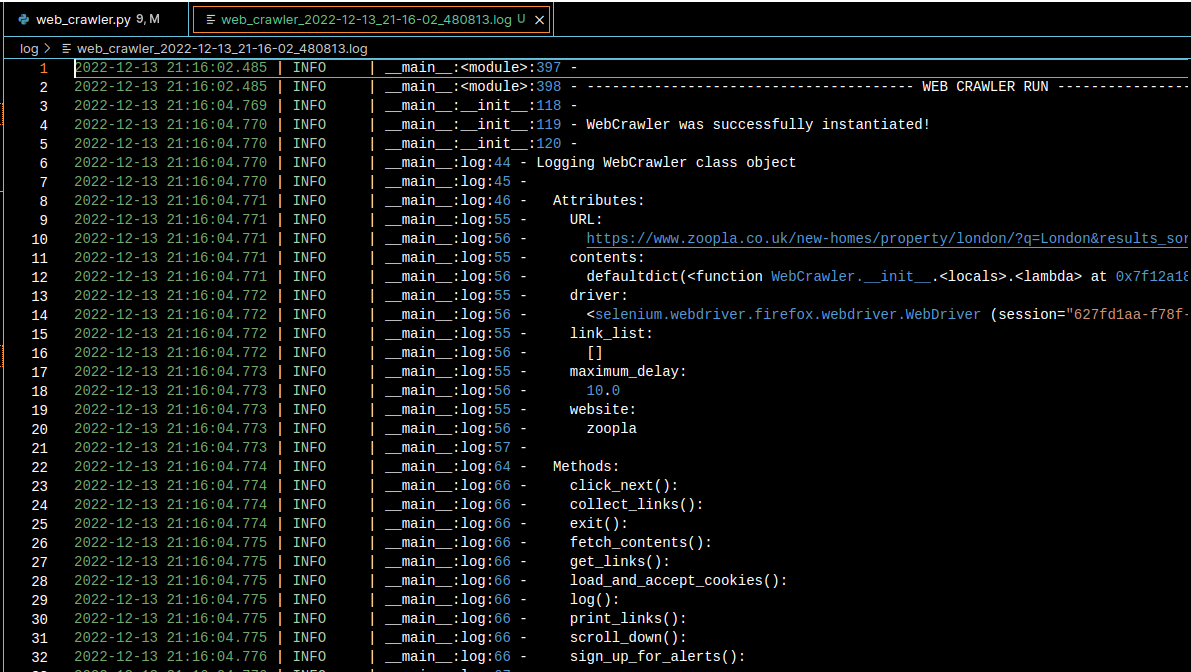
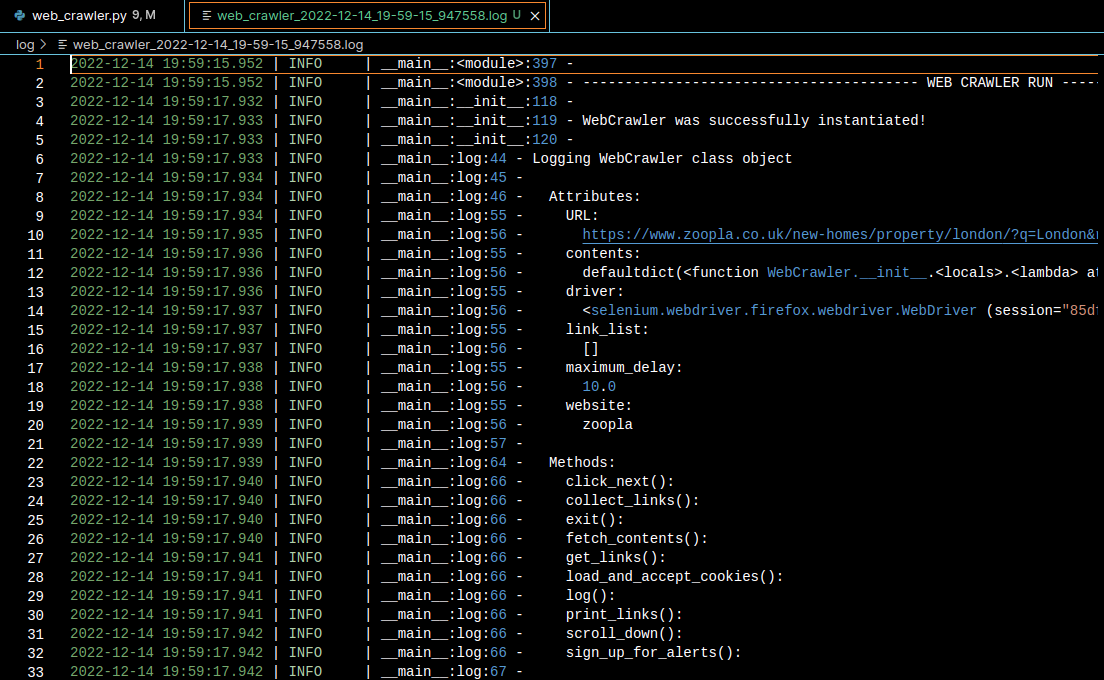
Update to README.md

Changed region(s): [[0.0, 0.0, 1.0, 1.0]]

diff --git a/web_crawler.py b/web_crawler.py
@@ -395,7 +395,7 @@ if __name__ == "__main__":
     logger.remove()
     logger.add("log/web_crawler_{time}.log")
     logger.info("")
-    logger.info("--------------------------------------- WEB CRAWLER RUN --------------------------------------- ")
+    logger.info("---------------------------------------- WEB CRAWLER RUN ----------------------------------------")
 
     URL = "https://www.zoopla.co.uk/new-homes/property/london/?q=London&results_sort=newest_listings&search_source=new-homes&page_size=25&pn=1&view_type=list"
 

diff --git a/README.md b/README.md
@@ -74,13 +74,11 @@ Fig. 1 - First <em>loguru</em> log
 class LogObjectMixin:
 
     def _is_protected(self, prop):
-        # check if attribute is protected
-        
+        ## check if attribute is protected
         return prop.startswith('_')
 
     def log(self, obj):
-        # Log (initialised) object
-
+        ## Log (initialised) object
         # list attributes: non-callable, non-private, non-protected
         attribute_list = [a for a in dir(self) if not callable(getattr(self, a)) and not a.startswith('__') and not self._is_protected(a)]
         attribute_list = sorted(attribute_list)
@@ -112,10 +110,10 @@ class LogObjectMixin:
         logger.info("")
 """
 ```
-- Using the mixin as a parent to WebCrawler class. As a result, WebCrawler instances inherit a method which can log <em>any</em> object.
+- Using the mixin as a parent to <em>WebCrawler</em> class. As a result, <em>WebCrawler</em> instances inherit a method which can log <em>any</em> object.
 <p align="center" width="100%">
     <img width="66%" src="https://github.com/PiotrZJelonek/DataCollectionPipeline/blob/develop/pics/mixin.png?raw=true">
 </p> 
 <p align = "center">
-Fig. 2 - Logging object <em>attributes</em> and <em>mrthods</em>  with loguru
+Fig. 2 - Logging object <em>attributes</em> and <em>methods</em>  with loguru
 </p>
